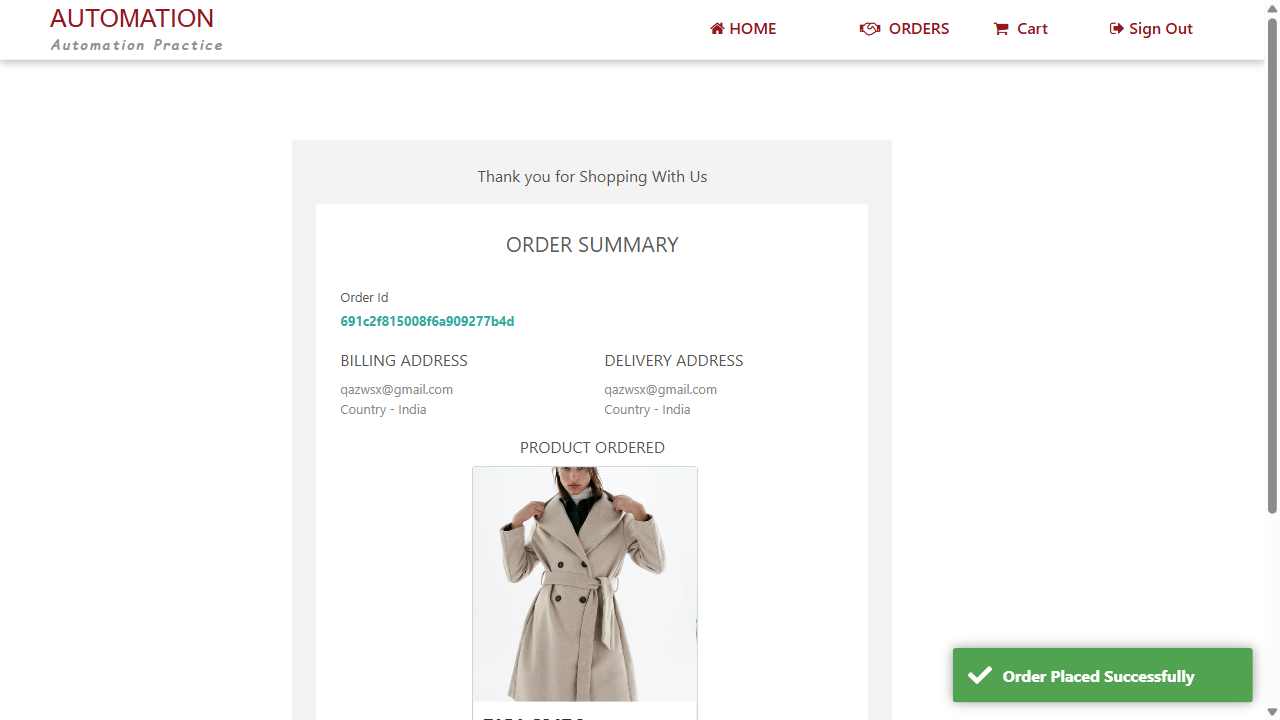
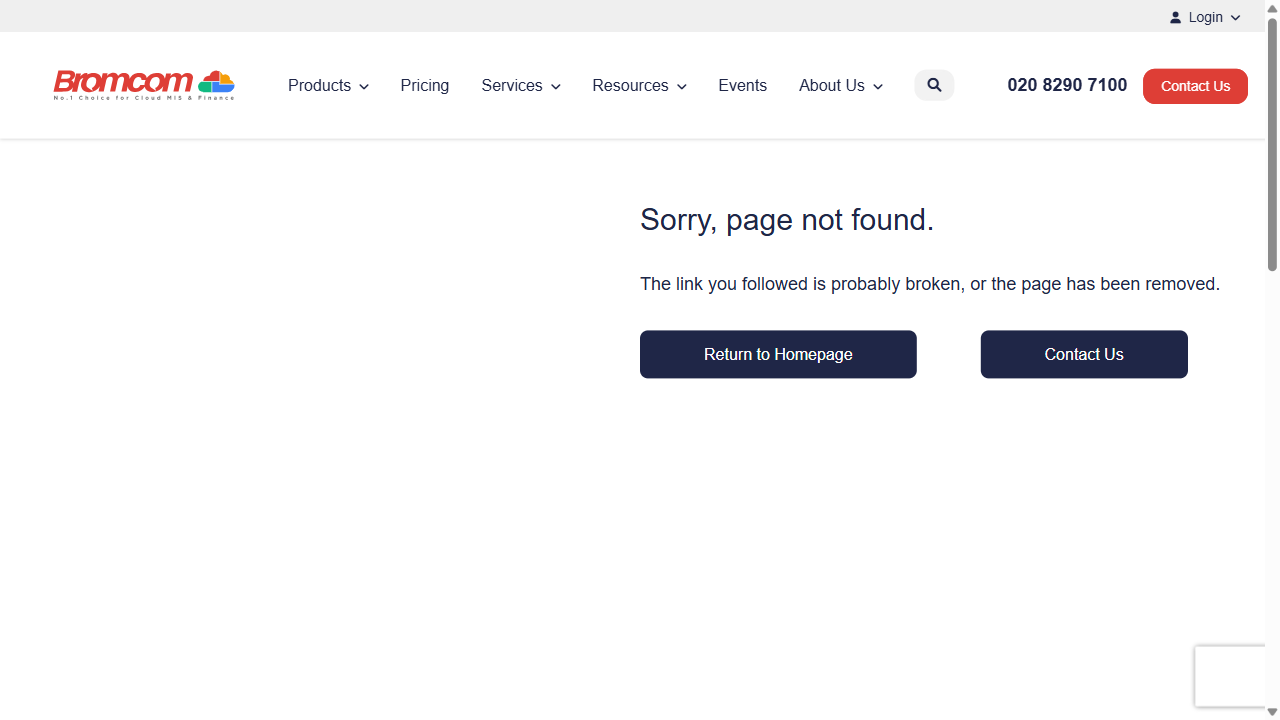
update latest code

diff --git a/PageObjects/POMmanager.ts b/PageObjects/POMmanager.ts
@@ -4,6 +4,8 @@ import { LoginPage } from "./LoginPage";
 import { CartPage } from "./CartPage";
 import { OrderPlacePage } from "./OrderPlacePage";
 import { OrderHistoryPage } from "./OrderHistoryPage";
+import { BromcomHome } from "./BromcomHome"; 
+import { BromcomHomeProduct } from "./BromcomHomeProduct";   
 
 
 export class POMmanager{
@@ -16,6 +18,8 @@ export class POMmanager{
          global.pagecart = new CartPage(this.page);
          global.orderPlace = new OrderPlacePage(this.page);
          global.orderHistory = new OrderHistoryPage(this.page);
+         global.bromcomHome = new BromcomHome(this.page);
+         global.bromcomHomeProduct = new BromcomHomeProduct(this.page);
     }
 
    }
@@ -27,6 +31,8 @@ declare global
         var dashboardPage: Dashboard;
         var orderPlace : OrderPlacePage;
         var orderHistory: OrderHistoryPage;
+        var bromcomHome : BromcomHome;
+        var bromcomHomeProduct : BromcomHomeProduct;
     }
 
 

diff --git a/features/support/hooks.ts b/features/support/hooks.ts
@@ -1,10 +1,10 @@
-  import { After, AfterStep, Before, BeforeStep, Status } from "@cucumber/cucumber";
+  import { After, AfterStep, Before, BeforeStep, setDefaultTimeout, Status } from "@cucumber/cucumber";
   import { chromium } from '@playwright/test';
   import { POMmanager } from '../../PageObjects/POMmanager';
 
   let browser:any;    //dynamically typed variable.
-
-  Before(async function({pickle}){
+  setDefaultTimeout(60 * 1000); // 60 seconds
+  Before("@web",async function({pickle}){
     console.log("before hooks Test started");
       browser = await chromium.launch({headless:false,slowMo:200});  //slows down the execution by 200ms
         const context = await browser.newContext();

diff --git a/features/step_definitions/bromcomStep.ts b/features/step_definitions/bromcomStep.ts
@@ -1,0 +1,15 @@
+import { Given, Then, When } from "@cucumber/cucumber"; 
+
+Given('a user navigates to Bromcom application', async function() {
+    await bromcomHome.navigateToBromcomHome();
+  // Write code here that turns the phrase above into concrete actions
+})
+When('user hover on Products option and select Primary MIS option', async function() {
+    await bromcomHomeProduct.bromcomPrimaryMIS();
+  // Write code here that turns the phrase above into concrete actions
+})
+
+Then('user lands on Bromcom Primary MIS page successfully', async function() {
+    await bromcomHomeProduct.verifyNavigationUrl();
+  // Write code here that turns the phrase above into concrete actions
+})

diff --git a/PageObjects/BromcomHomeProduct.ts b/PageObjects/BromcomHomeProduct.ts
@@ -14,5 +14,12 @@ export class BromcomHomeProduct{
         await this.page.hover(this.productsOption);
         await this.page.hover(this.primaryoption);
         await this.page.click(this.primaryMISoption);
+
     }
+
+    async verifyNavigationUrl(){
+        expect(this.page.url()).toBe(`https://bromcom.com/primary-schoolmis`);
+    }
+
+
 }

diff --git a/playwright.config.ts b/playwright.config.ts
@@ -15,7 +15,7 @@ export default defineConfig({
   testDir: './tests',
   timeout: 30*1000,
   expect:{
-   timeout:5000
+   timeout:5000,  
   },
   /* Run tests in files in parallel */
   fullyParallel: true,

diff --git a/features/step_definitions/steps.ts b/features/step_definitions/steps.ts
@@ -56,3 +56,5 @@ Then('user ensures the orderid and details is present in the order summary page 
 
 
 
+
+
